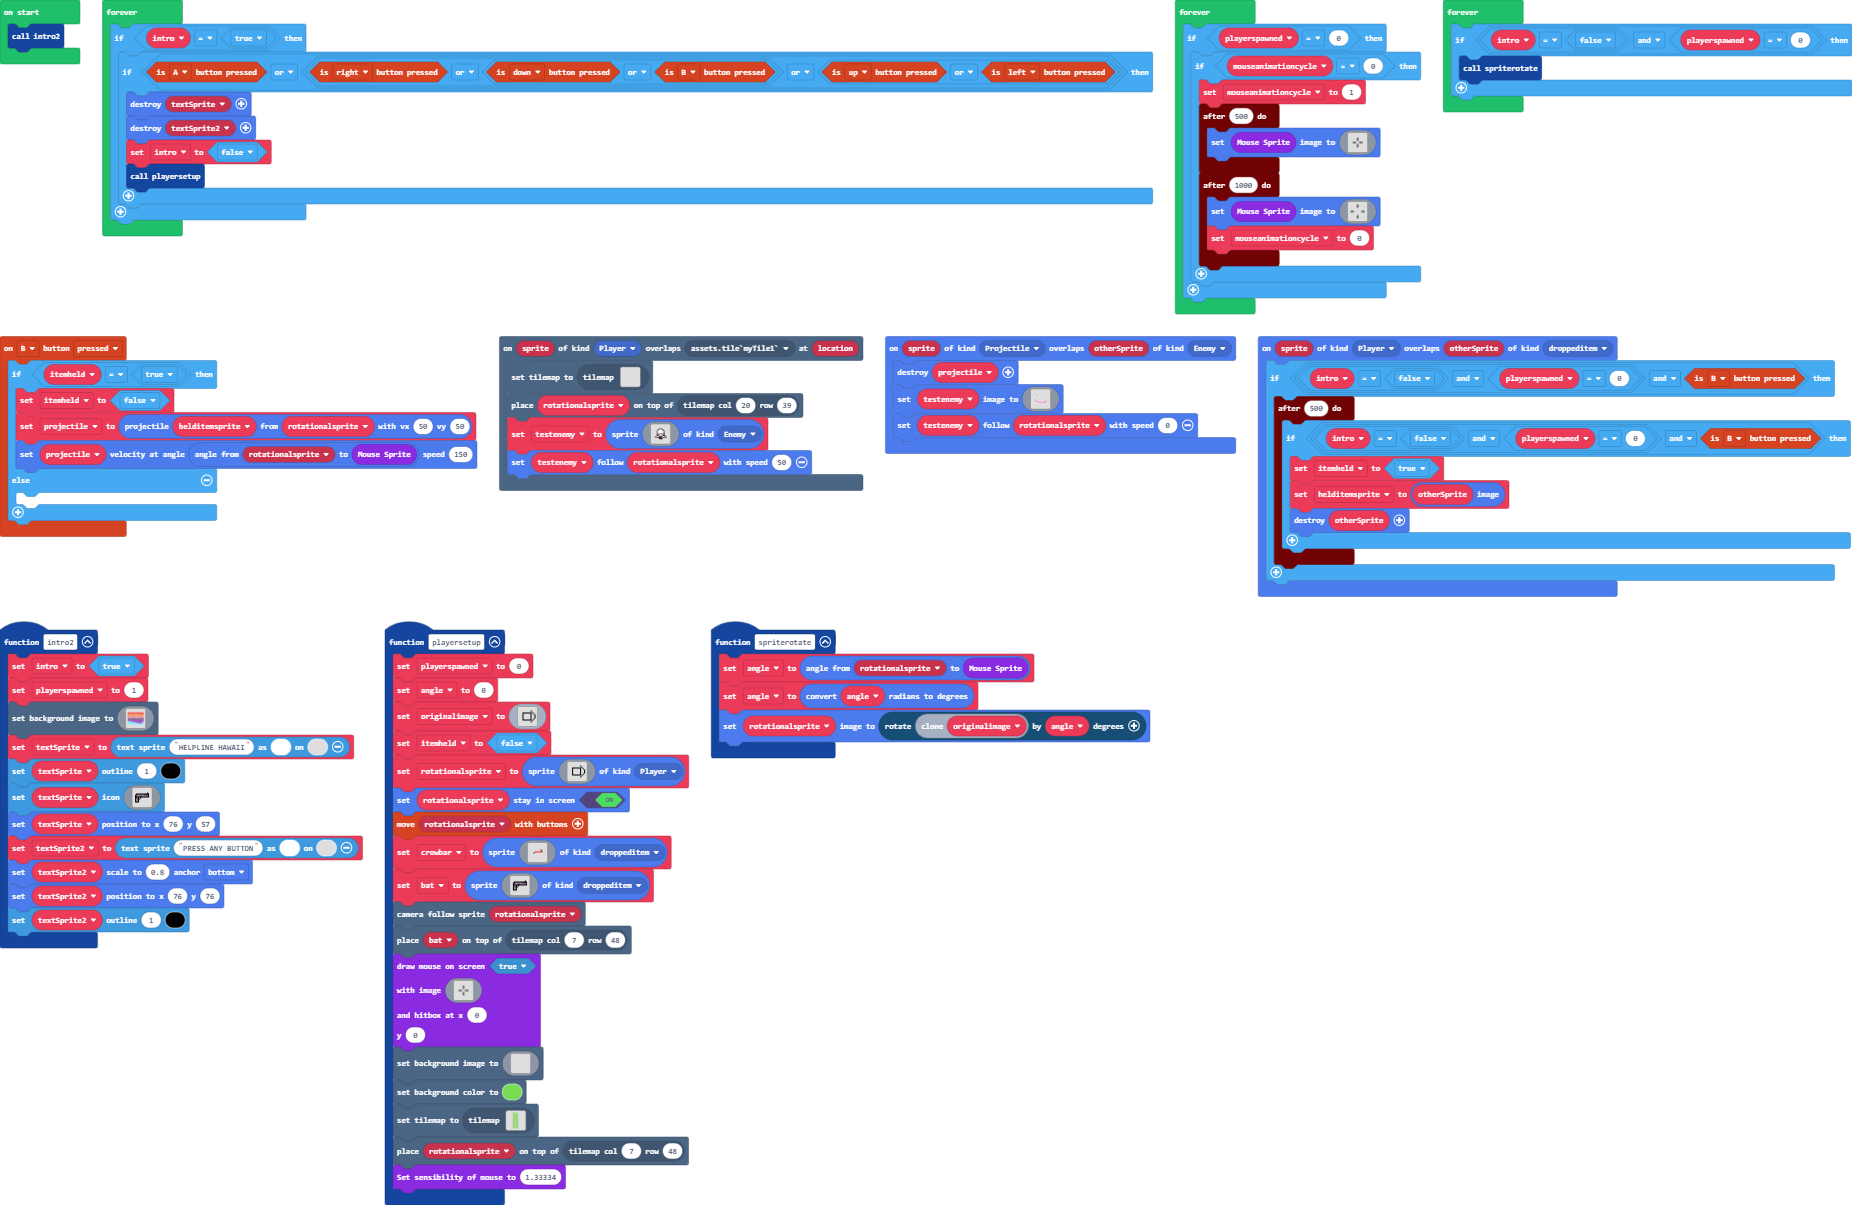
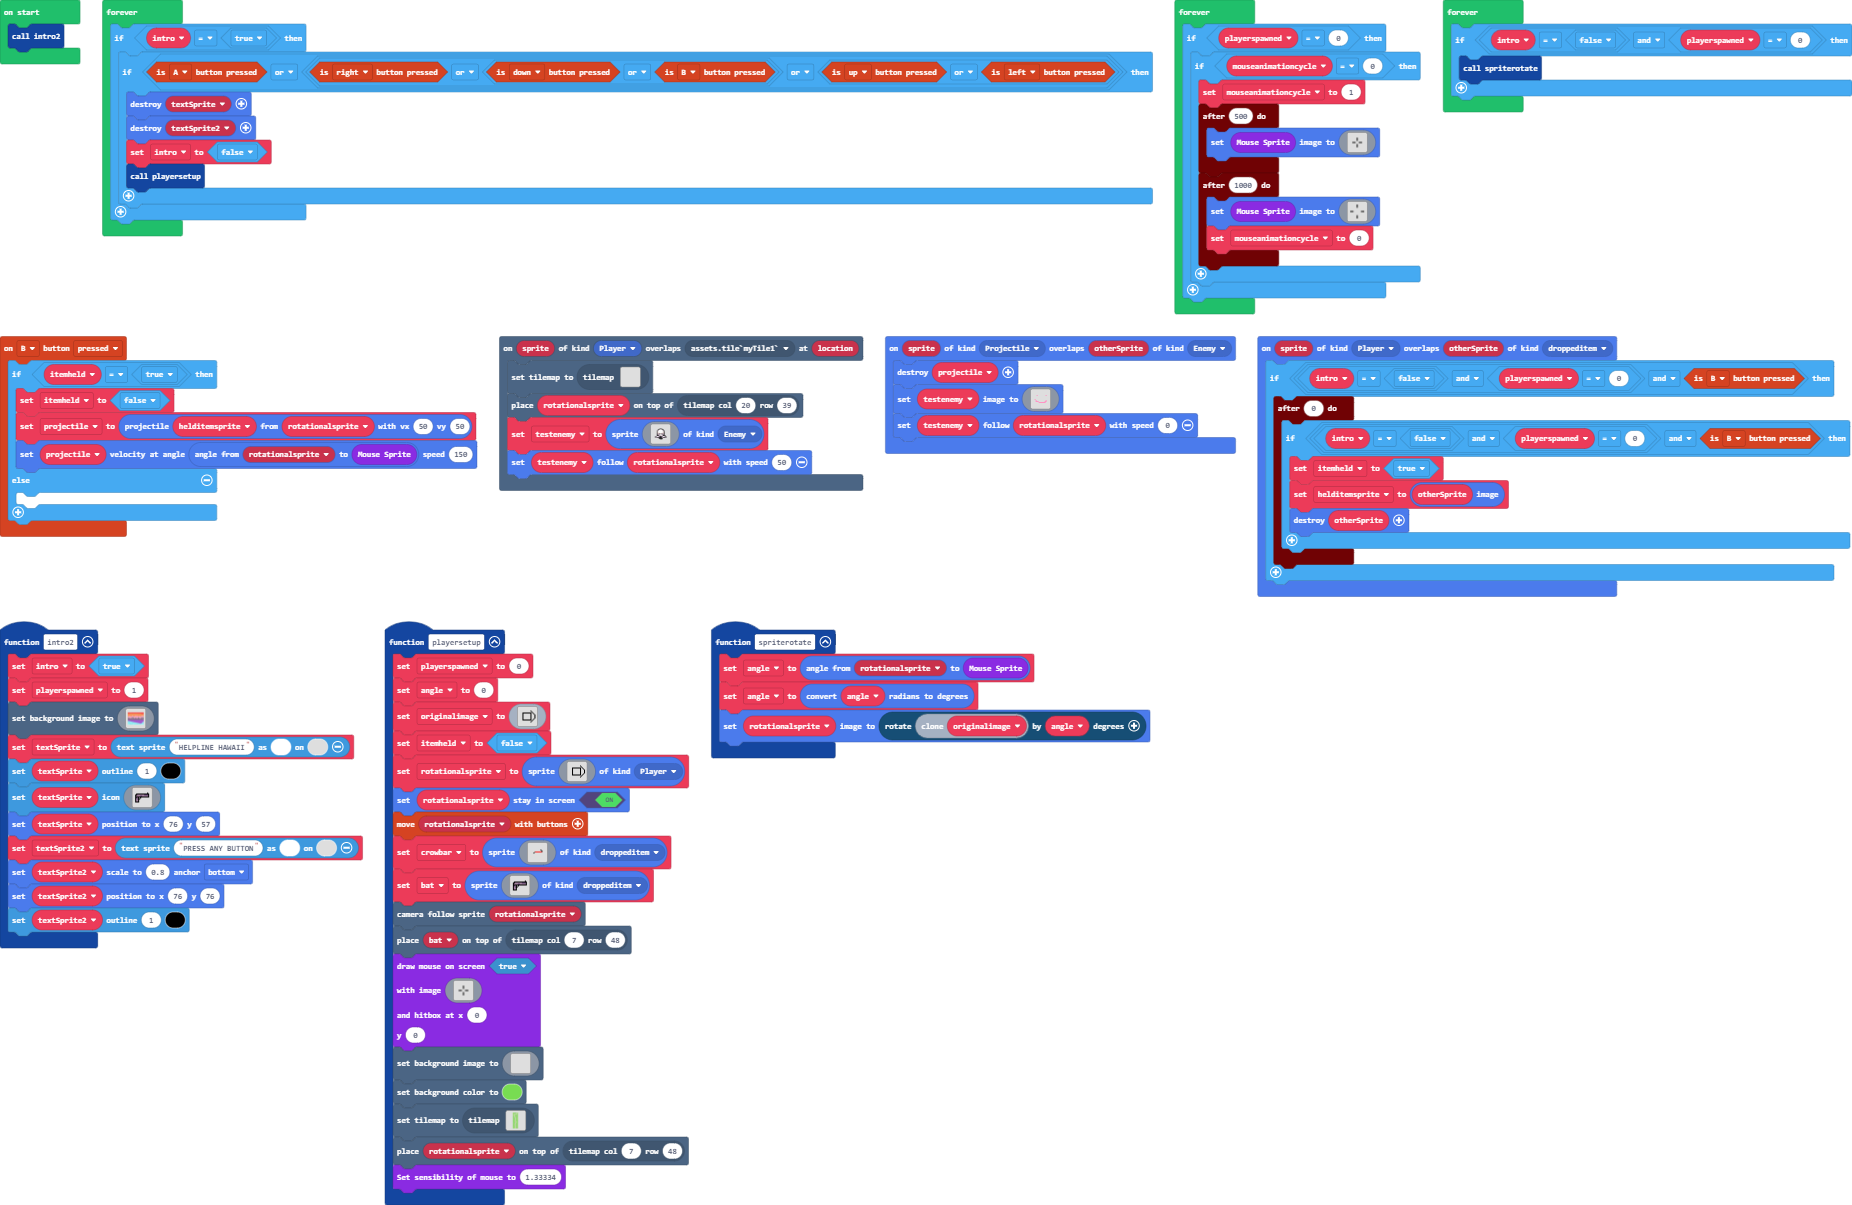
throwing

Changed region(s): [[0.6771, 0.3071, 0.7387, 0.4606], [0.6463, 0.1535, 0.6771, 0.1842], [0.6463, 0.0921, 0.6771, 0.1228]]

diff --git a/tilemap.g.ts b/tilemap.g.ts
@@ -117,25 +117,6 @@ namespace myTiles {
 ................
 ................
 `, [myTiles.transparency16,sprites.builtin.forestTiles0,sprites.castle.tilePath5,sprites.castle.tilePath6,sprites.castle.tilePath9,sprites.castle.tilePath7,sprites.castle.tilePath3,sprites.castle.tilePath1,sprites.castle.tilePath4,sprites.castle.tileGrass3,sprites.swamp.swampTile3,sprites.castle.rock0,sprites.castle.saplingPine,sprites.castle.tileGrass1,sprites.castle.tilePath8,sprites.castle.tilePath2,sprites.castle.shrub], TileScale.Sixteen);
-            case "level5":
-            case "level5":return tiles.createTilemap(hex`1000100000000000000000000000000000000000000000000000000000000000000000000000000000000000000000000000000000000000000000000000000000000000000000000000000000000000000000000000000000000000000000000000000000000000000000000000000000000000000000000000000000000000000000000000000000000000000000000000000000000000000000000000000000000000000000000000000000000000000000000000000000000000000000000000000000000000000000000000000000000000000000000000000000000000000000000000000000000000000000000000000000000000000000000000000000000000`, img`
-. . . . . . . . . . . . . . . . 
-. . . . . . . . . . . . . . . . 
-. . . . . . . . . . . . . . . . 
-. . . . . . . . . . . . . . . . 
-. . . . . . . . . . . . . . . . 
-. . . . . . . . . . . . . . . . 
-. . . . . . . . . . . . . . . . 
-. . . . . . . . . . . . . . . . 
-. . . . . . . . . . . . . . . . 
-. . . . . . . . . . . . . . . . 
-. . . . . . . . . . . . . . . . 
-. . . . . . . . . . . . . . . . 
-. . . . . . . . . . . . . . . . 
-. . . . . . . . . . . . . . . . 
-. . . . . . . . . . . . . . . . 
-. . . . . . . . . . . . . . . . 
-`, [], -Infinity);
             case "level6":
             case "level6":return tiles.createTilemap(hex`1000100000000000000000000000000000000000000000000000000000000000000000000000000000000000000000000000000000000000000000000000000000000000000000000000000000000000000000000000000000000000000000000000000000000000000000000000000000000000000000000000000000000000000000000000000000000000000000000000000000000000000000000000000000000000000000000000000000000000000000000000000000000000000000000000000000000000000000000000000000000000000000000000000000000000000000000000000000000000000000000000000000000000000000000000000000000000`, img`
 . . . . . . . . . . . . . . . . 
@@ -155,6 +136,44 @@ namespace myTiles {
 . . . . . . . . . . . . . . . . 
 . . . . . . . . . . . . . . . . 
 `, [myTiles.transparency16], TileScale.Sixteen);
+            case "level7":
+            case "level7":return tiles.createTilemap(hex`1000100000000000000000000000000000000000000000000000000000000000000000000000000000000000000000000000000000000000000000000000000000000000000000000000000000000000000000000000000000000000000000000000000000000000000000000000000000000000000000000000000000000000000000000000000000000000000000000000000000000000000000000000000000000000000000000000000000000000000000000000000000000000000000000000000000000000000000000000000000000000000000000000000000000000000000000000000000000000000000000000000000000000000000000000000000000000`, img`
+. . . . . . . . . . . . . . . . 
+. . . . . . . . . . . . . . . . 
+. . . . . . . . . . . . . . . . 
+. . . . . . . . . . . . . . . . 
+. . . . . . . . . . . . . . . . 
+. . . . . . . . . . . . . . . . 
+. . . . . . . . . . . . . . . . 
+. . . . . . . . . . . . . . . . 
+. . . . . . . . . . . . . . . . 
+. . . . . . . . . . . . . . . . 
+. . . . . . . . . . . . . . . . 
+. . . . . . . . . . . . . . . . 
+. . . . . . . . . . . . . . . . 
+. . . . . . . . . . . . . . . . 
+. . . . . . . . . . . . . . . . 
+. . . . . . . . . . . . . . . . 
+`, [myTiles.transparency16], TileScale.Sixteen);
+            case "level5":
+            case "level5":return tiles.createTilemap(hex`1000100000000000000000000000000000000000000000000000000000000000000000000000000000000000000000000000000000000000000000000000000000000000000000000000000000000000000000000000000000000000000000000000000000000000000000000000000000000000000000000000000000000000000000000000000000000000000000000000000000000000000000000000000000000000000000000000000000000000000000000000000000000000000000000000000000000000000000000000000000000000000000000000000000000000000000000000000000000000000000000000000000000000000000000000000000000000`, img`
+. . . . . . . . . . . . . . . . 
+. . . . . . . . . . . . . . . . 
+. . . . . . . . . . . . . . . . 
+. . . . . . . . . . . . . . . . 
+. . . . . . . . . . . . . . . . 
+. . . . . . . . . . . . . . . . 
+. . . . . . . . . . . . . . . . 
+. . . . . . . . . . . . . . . . 
+. . . . . . . . . . . . . . . . 
+. . . . . . . . . . . . . . . . 
+. . . . . . . . . . . . . . . . 
+. . . . . . . . . . . . . . . . 
+. . . . . . . . . . . . . . . . 
+. . . . . . . . . . . . . . . . 
+. . . . . . . . . . . . . . . . 
+. . . . . . . . . . . . . . . . 
+`, [], -Infinity);
         }
         return null;
     })

diff --git a/main.ts b/main.ts
@@ -34,7 +34,7 @@ scene.onOverlapTile(SpriteKind.Player, assets.tile`myTile1`, function (sprite, l
 })
 sprites.onOverlap(SpriteKind.Player, SpriteKind.droppeditem, function (sprite, otherSprite) {
     if (intro == false && playerspawned == 0 && controller.B.isPressed()) {
-        timer.after(500, function () {
+        timer.after(0, function () {
             if (intro == false && playerspawned == 0 && controller.B.isPressed()) {
                 itemheld = true
                 helditemsprite = otherSprite.image
